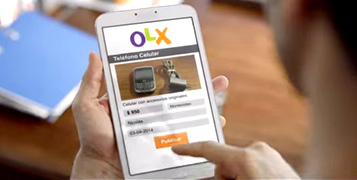
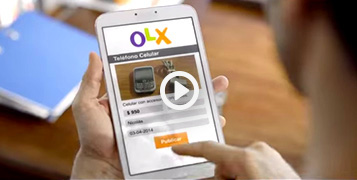
[ONEWEB-579] OneWeb Desktop :: Video widget on homepage Uruguay

Changed region(s): [[0.4006, 0.3333, 0.5854, 0.6944], [0.4006, 0.1667, 0.493, 0.25], [0.4314, 0.7778, 0.493, 0.8333]]

diff --git a/app/localized/default/templates/desktop/modals/videogallery.html b/app/localized/default/templates/desktop/modals/videogallery.html
@@ -7,26 +7,21 @@
 {% endblock %}
 
 {% block content %}
-    {% for video in videos %}
-        {% if loop.first %}
-            <div class="video-content">
-                <iframe width="635" height="390" frameborder="0" allowfullscreen="" id="video-container-iframe" src="http://www.youtube.com/embed/{{ video.id }}"></iframe>
-            </div>
-
-            <div class="video-thumbnails">
-                <ul class="content">
-
-        {% endif %}
-                    <li {{ 'class="hide"' if loop.first }}>
-                        <a data-video-item="{{ video.id }}" href="#">
-                            <span class="video-title">{{ video.title }}</span>
-                            <span class="icon-play"></span>
-                            <img alt="{{ video.title }}" src="http://img.youtube.com/vi/{{ video.id }}/default.jpg" />
-                        </a>
-                    </li>
-                {{ '</ul>' if loop.last }}
-    {% endfor %}
-
+    <div class="video-content">
+        <iframe width="635" height="390" frameborder="0" allowfullscreen="" id="video-container-iframe" src="http://www.youtube.com/embed/{{ videos[0].id }}"></iframe>
+    </div>
+    <div class="video-thumbnails">
+        <ul class="content">
+        {% for video in videos %}
+            <li>
+                <a data-video-item="{{ video.id }}" class="video{{ ' active' if loop.first }}" href="#">
+                    <span class="video-title">{{ video.title }}</span>
+                    <span class="icon-play"></span>
+                    <img alt="{{ video.title }}" src="http://img.youtube.com/vi/{{ video.id }}/default.jpg" />
+                </a>
+            </li>
+        {% endfor %}
+    </ul>
         <div class="social-share">
             <p>{{ dictionary["defaulthtmlhead.ShareThisVideo"] }}:</p>
             <ul>

diff --git a/app/localized/common/app/views/app.js b/app/localized/common/app/views/app.js
@@ -6,7 +6,6 @@ var URLParser = require('url');
 module.exports = Base.extend({
     className: 'app_view',
     events: {
-        'click [data-video-item]': 'changeVideo',
         'click [data-share-facebook]': 'openFacebook',
         'click [data-share-twitter]': 'openTwitter',
         'click [data-share-gplus]': 'openGplus'
@@ -43,13 +42,6 @@ module.exports = Base.extend({
             this.app.router.redirectTo(href);
         }
     },
-    changeVideo: function(event) {
-        event.preventDefault();
-        event.stopPropagation();
-        event.stopImmediatePropagation();
-        this._changeIframeConfig(event);
-
-    },
     openFacebook: function(event) {
         event.preventDefault();
         event.stopPropagation();
@@ -74,22 +66,6 @@ module.exports = Base.extend({
         var shareUrl = event.currentTarget.dataset.shareUrl,
             url = "https://plus.google.com/share?url=" + shareUrl;
             this._openWindow(url);
-    },
-    _changeIframeConfig: function (event) {
-            var thisElement = $(event.currentTarget),
-                urlVideo = thisElement.attr('data-video-item'),
-                urlVideoFull = "http://www.youtube.com/embed/" + urlVideo,
-                videoTitle = thisElement.find('.video-title').text();
-            thisElement.parent().siblings().show();
-            thisElement.parent().hide();
-
-            // Change share buttons data
-            $('.social-share a').each(function(){
-                $(this).attr('data-share-url', urlVideoFull);
-                $(this).attr('data-share-title', videoTitle);
-            });
-
-            $("#video-container-iframe").attr("src", urlVideoFull);
     },
     _openWindow: function (url) {
         var width =  626,

diff --git a/app/localized/default/app/views/desktop/modals/modal.js b/app/localized/default/app/views/desktop/modals/modal.js
@@ -7,7 +7,9 @@ module.exports = Base.extend({
     idModal: 'base-modal',
     events: {
         'show': 'onShow',
-        'hide': 'onHide'
+        'hide': 'onHide',
+        'click [data-video-item]': 'changeVideo'
+
     },
     onShow: function(event) {
         event.preventDefault();
@@ -22,5 +24,29 @@ module.exports = Base.extend({
         event.stopImmediatePropagation();
         $('body').removeClass('noscroll');
         $('#' + this.idModal).removeClass('modal-visible');
+    },
+    changeVideo: function(event) {
+        event.preventDefault();
+        event.stopPropagation();
+        event.stopImmediatePropagation();
+
+        var $target = $(event.currentTarget);
+
+        if (!$target.hasClass('active')) {
+            var videoId = $target.data('video-item');
+            var videoUrl = "http://www.youtube.com/embed/" + videoId;
+            var videoTitle = $target.find('.video-title').text();
+            var $videosList = $('.video[data-video-item]');
+
+            $videosList.removeClass('active');
+            $target.addClass('active');
+
+            $('.social-share a').each(function(){
+                $(this).attr('data-share-url', videoUrl);
+                $(this).attr('data-share-title', videoTitle);
+            });
+
+            $("#video-container-iframe").attr("src", videoUrl);
+        }
     }
 });

diff --git a/app/localized/default/templates/desktop/categories/list.html b/app/localized/default/templates/desktop/categories/list.html
@@ -1,7 +1,7 @@
 <section id="marketing-top">
     {% view 'categories/partials/country-area' %}
     {% if videos %}
-        {% view '/marketing/bannervideo' %}
+        {% view 'marketing/bannervideo' %}
     {% else %}
         {% include (template + '/marketing/marketing-box-sell.html') %}
     {% endif %}
